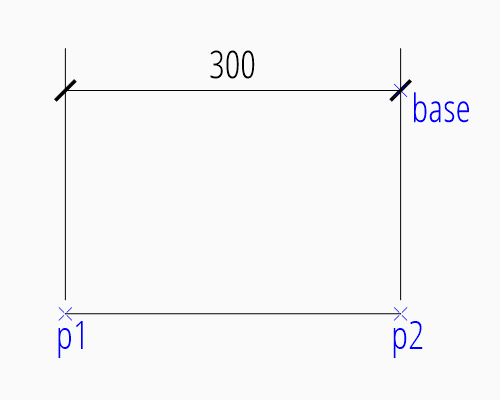
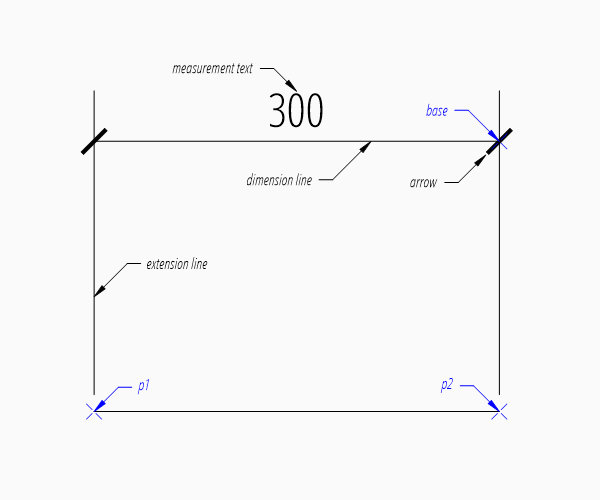
fix base point calculation of aligned linear dimensions

diff --git a/ezdxf/graphicsfactory.py b/ezdxf/graphicsfactory.py
@@ -1037,7 +1037,7 @@ class CreatorInterface:
         p2 = Vector(p2)
         direction = p2 - p1
         angle = direction.angle_deg
-        base = direction.orthogonal().normalize(distance)
+        base = direction.orthogonal().normalize(distance) + p1
         return self.add_linear_dim(
             base=base,
             p1=p1,

diff --git a/docs/source/tutorials/linear_dimension.rst b/docs/source/tutorials/linear_dimension.rst
@@ -16,10 +16,10 @@ Don't expect to get the same rendering results by `ezdxf` as you get from AutoCA
 to be as close to the results rendered by BricsCAD, but it was not possible to implement all
 the various combinations of dimension style parameters.
 
-Text rendering is another problem, because `ezdxf` has no real rendering engine, font properties, like the real
-text width, are not available to `ezdxf` and also my differ slightly for different CAD applications.
-The text properties in `ezdxf` are based on the default monospaced standard font, but for true type fonts space
-around the text is much bigger as needed.
+Text rendering is another problem, because `ezdxf` has no real rendering engine. Some font properties, like the real
+text width, are not available to `ezdxf` and may also vary slightly for different CAD applications.
+The text properties in `ezdxf` are based on the default monospaced standard font, but for TrueType fonts the space
+around the text is much bigger than needed.
 
 Horizontal Dimension
 --------------------
@@ -47,12 +47,13 @@ Horizontal Dimension
 
 
 The example above creates a horizontal :class:`~ezdxf.entities.Dimension` entity, the default dimension style
-``'EZDXF'`` is defined as 1 drawing unit is 1m in reality, drawing scale 1:100 and the length factor is 100, which
-creates a measurement text in cm.
+``'EZDXF'`` and is defined as 1 drawing unit is 1m in reality, the drawing scale 1:100 and the length factor is 100,
+which creates a measurement text in cm.
 
-The `base` point defines the dimension line, `ezdxf` accepts any point on the dimension line, the point `p1` defines
-the start point of the first extension line, which also defines the first measurement point and the point `p2`
-defines the start point of the second extension line, which also defines the second measurement point.
+The `base` point defines the location of the dimension line, `ezdxf` accepts any point on the dimension line,
+the point `p1` defines the start point of the first extension line, which also defines the first measurement point
+and the point `p2` defines the start point of the second extension line, which also defines the second
+measurement point.
 
 The return value `dim` is **not** a dimension entity, instead a :class:`~ezdxf.entities.DimStyleOverride` object is
 returned, the dimension entity is stored as `dim.dimension`.
@@ -76,7 +77,17 @@ For a vertical dimension set argument `angle` to 90 degree, but in this example 
 Aligned Dimension
 -----------------
 
-TODO
+An aligned dimension line is parallel to the line defined by the definition points `p1` and `p2`. The placement of the
+dimension line is defined by the argument `distance`, which is the distance between the definition line and the
+dimension line. The `distance` of the dimension line is orthogonal to the base line in counter clockwise orientation.
+
+.. code-block:: Python
+
+    msp.add_line((0, 2), (3, 0))
+    dim = msp.add_aligned_dim(p1=(0, 2), p2=(3, 0), distance=1)
+    doc.saveas('dim_linear_aligned.dxf')
+
+.. image:: gfx/dim_linear_aligned.png
 
 Placing Measurement Text
 ------------------------

diff --git a/NEWS.md b/NEWS.md
@@ -14,6 +14,7 @@ Version 0.11a0 - dev
 - NEW: Arc properties `start_point` and `end_point` returns start- and end point of arc in WCS
 - NEW: Ellipse properties `start_point` and `end_point` returns start- and end point of ellipse in WCS
 - NEW: `Drawing.set_modelspace_vport(height, center)` set initial view/zoom location for the modelspace
+- BUGFIX: fixed base point calculation of aligned dimensions
 
 Version 0.10.2 - 2019-10-05
 ---------------------------
